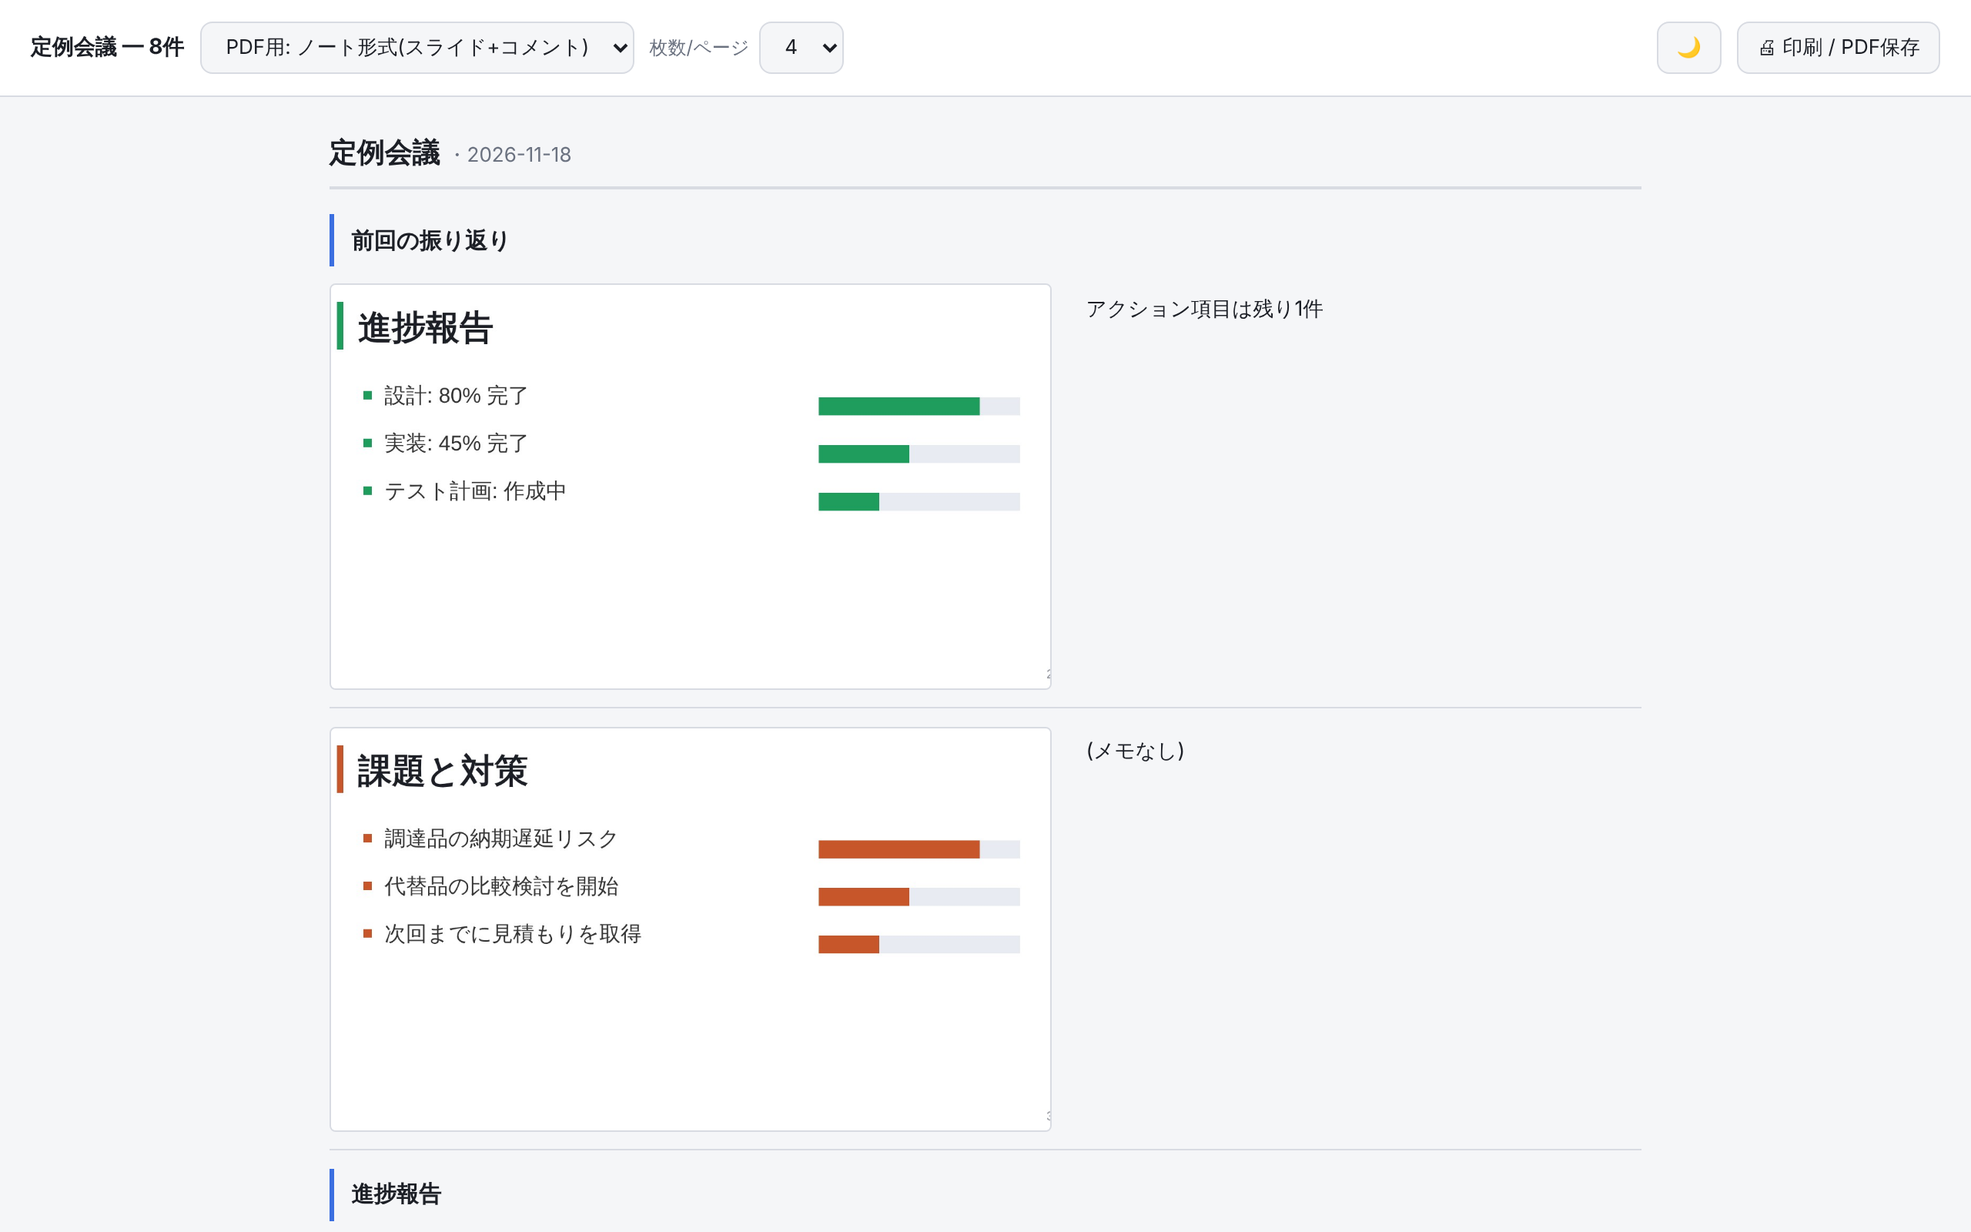
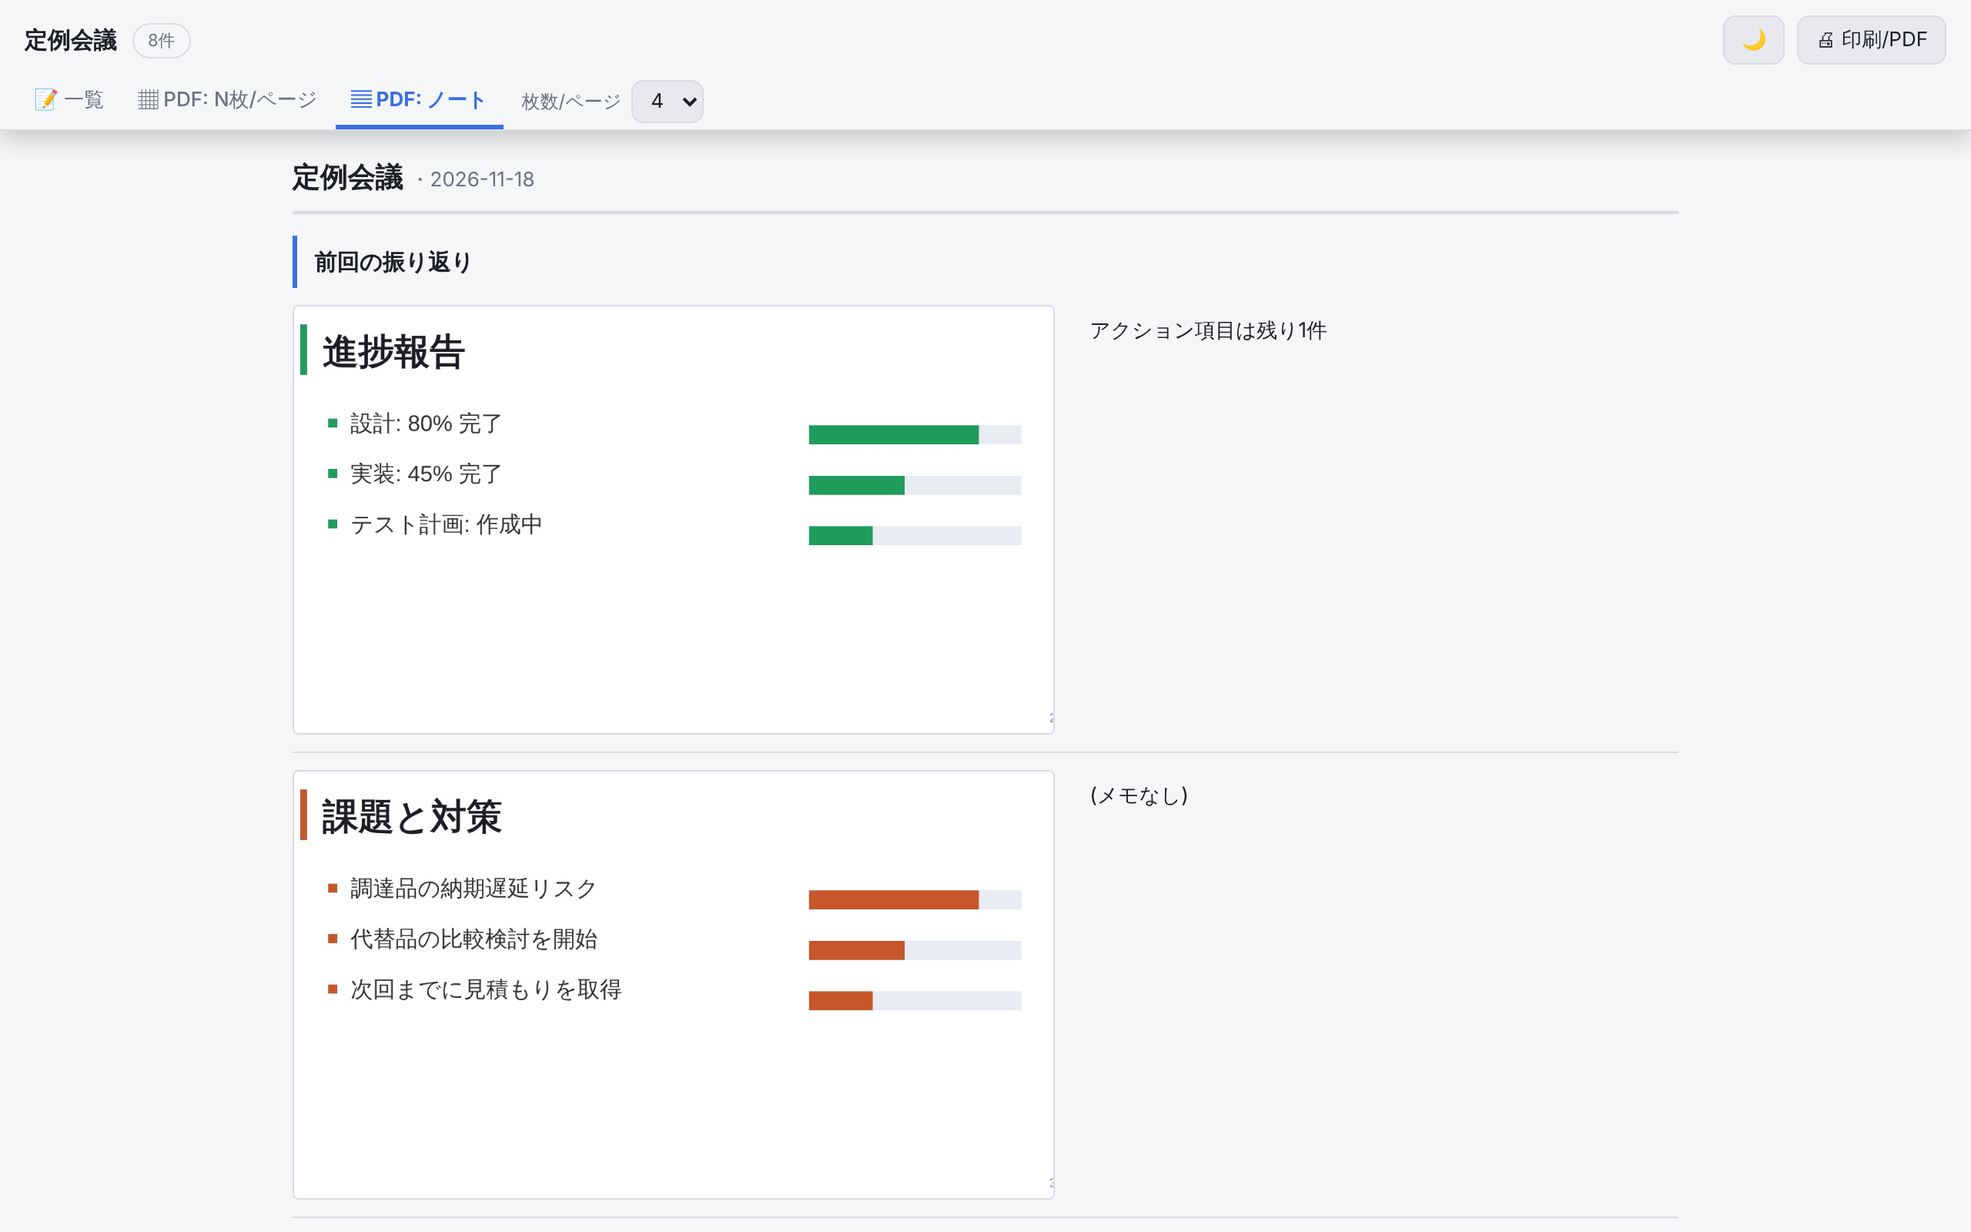
SmartCaptureMemo v02_2026-11-18.9: 書き出しHTMLのデザインを本体に合わせて刷新
- 本体と同じ配色トークン・ヘッダー(タイトル/件数/テーマ/印刷)・表示モードのタブ
- 目次を左のsticky列に(件数📸💬付き、狭い幅は従来どおり右端から引き出し)
- 行をカード型に、メモなし画像の「(メモなし)」表示を省略(一覧表示)
- 印刷時はヘッダー・目次を非表示のまま。ヘルプの説明・スクリーンショットを更新

Claude-Session: https://claude.ai/code/session_01YFt5PcScnp5RMTFYd4nYm6

diff --git a/SmartCaptureMemo/index.html b/SmartCaptureMemo/index.html
@@ -2389,49 +2389,70 @@
 <meta name="viewport" content="width=device-width, initial-scale=1.0">
 <title>${docTitleEsc}</title>
 <style>
-  :root{--bg:#0f1115;--text:#e6e8ec;--sub:#9aa0ac;--panel:#171a21;--border:#2a2e3a;--accent:#4f8cff;--mark-bg:#fde047;--mark-fg:#1c1f26;--memo-col-red:#e5484d;--memo-col-blue:#3b82f6;--memo-col-green:#2fa360;}
+  /* 配色・部品はSmartCaptureMemo本体と同じトークン/見た目に揃える */
+  :root{--bg:#0f1115;--panel:#171a21;--surface2:#1c2029;--border:#2a2e3a;--text:#e6e8ec;--sub:#9aa0ac;--accent:#4f8cff;--secondary-bg:#262b38;--mark-bg:#fde047;--mark-fg:#1c1f26;--memo-col-red:#e5484d;--memo-col-blue:#3b82f6;--memo-col-green:#2fa360;}
   @media (prefers-color-scheme: light){
-    :root{--bg:#f5f6f8;--text:#1c1f26;--sub:#6b7280;--panel:#ffffff;--border:#d8dbe2;--accent:#3b6fe0;}
+    :root{--bg:#f5f6f8;--panel:#ffffff;--surface2:#eef0f4;--border:#d8dbe2;--text:#1c1f26;--sub:#6b7280;--accent:#3b6fe0;--secondary-bg:#e7e9ee;}
   }
-  html[data-theme="light"]{--bg:#f5f6f8;--text:#1c1f26;--sub:#6b7280;--panel:#ffffff;--border:#d8dbe2;--accent:#3b6fe0;}
-  html[data-theme="dark"]{--bg:#0f1115;--text:#e6e8ec;--sub:#9aa0ac;--panel:#171a21;--border:#2a2e3a;--accent:#4f8cff;}
+  html[data-theme="light"]{--bg:#f5f6f8;--panel:#ffffff;--surface2:#eef0f4;--border:#d8dbe2;--text:#1c1f26;--sub:#6b7280;--accent:#3b6fe0;--secondary-bg:#e7e9ee;}
+  html[data-theme="dark"]{--bg:#0f1115;--panel:#171a21;--surface2:#1c2029;--border:#2a2e3a;--text:#e6e8ec;--sub:#9aa0ac;--accent:#4f8cff;--secondary-bg:#262b38;}
   *{box-sizing:border-box;}
   body{font-family:-apple-system,BlinkMacSystemFont,"Segoe UI",sans-serif;background:var(--bg);color:var(--text);margin:0;}
+
   .controls{
-    position:sticky; top:0; z-index:10; display:flex; align-items:center; gap:10px; flex-wrap:wrap;
-    padding:14px 20px; background:var(--panel); border-bottom:1px solid var(--border);
+    position:sticky; top:0; z-index:10; background:var(--bg);
+    border-bottom:1px solid var(--border); box-shadow:0 6px 14px rgba(0,0,0,.18);
   }
-  .controls strong{font-size:14px;}
-  .controls select, .controls button{
-    background:var(--bg); color:var(--text); border:1px solid var(--border); border-radius:8px;
-    padding:7px 12px; font-size:13px; cursor:pointer; font-family:inherit;
+  .appBar{display:flex; align-items:center; gap:10px; padding:10px 16px 6px;}
+  .appBar h1{font-size:15px; margin:0; font-weight:700; min-width:0; overflow:hidden; text-overflow:ellipsis; white-space:nowrap;}
+  .appBar .chip{font-size:11px; color:var(--sub); border:1px solid var(--border); border-radius:12px; padding:3px 9px; white-space:nowrap;}
+  .appBar .rightGroup{margin-left:auto; display:flex; gap:8px; flex-shrink:0;}
+  .controls button, .controls select{
+    background:var(--secondary-bg); color:var(--text); border:1px solid var(--border); border-radius:8px;
+    padding:6px 11px; font-size:13px; cursor:pointer; font-family:inherit;
   }
-  .controls .rightGroup{margin-left:auto; display:flex; gap:10px;}
+  .modeBar{display:flex; align-items:center; gap:2px 12px; padding:0 12px; flex-wrap:wrap;}
+  .modeTabs{display:flex; gap:2px;}
+  .controls .modeTab{
+    background:transparent; color:var(--sub); border:none; border-radius:0; border-bottom:3px solid transparent;
+    padding:8px 10px 7px; font-size:13px; font-weight:500;
+  }
+  .controls .modeTab:hover{color:var(--text);}
+  .controls .modeTab.active{color:var(--accent); border-bottom-color:var(--accent); font-weight:700;}
+  #layoutSelect{display:none;}
   #perPageWrap{display:none; align-items:center; gap:6px; font-size:12px; color:var(--sub);}
   #gridCommentWrap{display:none; align-items:center; gap:6px; font-size:12px; color:var(--sub); cursor:pointer;}
+  .controls #perPageSelect{padding:4px 8px;}
 
-  main{max-width:900px; margin:0 auto; padding:24px;}
-  #docTitle{font-size:18px; margin:0 0 16px; padding-bottom:10px; border-bottom:2px solid var(--border);}
+  .layout{display:flex; gap:16px; align-items:flex-start; max-width:1180px; margin:0 auto; padding:14px 16px;}
+  main{flex:1; min-width:0; max-width:900px; margin:0 auto;}
+  #docTitle{font-size:18px; margin:4px 0 14px; padding-bottom:10px; border-bottom:2px solid var(--border);}
   .docDateTag{font-size:13px; font-weight:400; color:var(--sub);}
 
   #tocPanel{
-    display:block; position:fixed; top:76px; right:24px; width:200px; max-height:calc(100vh - 100px);
-    overflow-y:auto; background:var(--panel); border:1px solid var(--border); border-radius:10px;
-    padding:12px 14px; z-index:5;
+    display:block; position:sticky; top:calc(var(--controls-h, 90px) + 10px); width:220px; flex-shrink:0;
+    max-height:calc(100vh - var(--controls-h, 90px) - 24px); overflow-y:auto;
+    background:var(--panel); border:1px solid var(--border); border-radius:10px; padding:10px 8px; z-index:5;
   }
   #tocPanel.toc-hidden{ display:none !important; }
-  #tocPanel h2{font-size:11px; color:var(--sub); margin:0 0 8px; font-weight:600; letter-spacing:.02em;}
-  #tocPanel nav{display:flex; flex-direction:column;}
+  #tocPanel h2{font-size:11px; color:var(--sub); margin:0 6px 6px; font-weight:600;}
+  #tocPanel nav{display:flex; flex-direction:column; gap:1px;}
   #tocPanel a{
-    display:block; color:var(--text); text-decoration:none; font-size:12px; line-height:1.4;
-    padding:4px 0 4px 8px; margin-left:-1px; border-left:2px solid transparent; opacity:.85;
+    display:flex; gap:6px; align-items:baseline; padding:6px 8px; border-radius:6px; text-decoration:none;
+    color:var(--text); font-size:12px; line-height:1.4; border-left:3px solid transparent;
   }
-  #tocPanel a:hover{opacity:1; border-left-color:var(--accent);}
-  #tocPanel a.active{opacity:1; font-weight:700; color:var(--accent); border-left-color:var(--accent);}
+  #tocPanel a:hover{background:var(--surface2);}
+  #tocPanel a.active{border-left-color:var(--accent); color:var(--accent); font-weight:700; background:var(--surface2);}
+  #tocPanel .tocLabel{flex:1; min-width:0; overflow:hidden; text-overflow:ellipsis; white-space:nowrap;}
+  #tocPanel .tocCount{flex-shrink:0; display:flex; gap:6px; font-size:10px; color:var(--sub); font-weight:400;}
+  #tocPanel .tocNum{display:inline-flex; align-items:baseline; gap:1px;}
+  #tocPanel .tocNum b{display:inline-block; min-width:2ch; text-align:right; font-weight:400; font-variant-numeric:tabular-nums;}
   #tocEdgeTrigger{ display:none; }
-  @media (max-width:1300px){
+  @media (max-width:899px){
+    .layout{display:block;}
+    #tocPanel{position:fixed; max-height:none;}
     #tocPanel{
-      top:0; right:0; width:240px; max-height:none; height:100vh; border-radius:10px 0 0 10px;
+      top:0; right:0; width:260px; max-height:none; height:100vh; border-radius:10px 0 0 10px;
       transform:translateX(100%); transition:transform .25s ease; box-shadow:-6px 0 20px rgba(0,0,0,.3);
       z-index:40; padding-top:20px;
     }
@@ -2448,15 +2469,17 @@
   }
   @media print{ .pageHeaderPrint{display:block;} }
 
-  .rec{background:var(--panel);border:1px solid var(--border);border-radius:10px;padding:14px;margin-bottom:16px;break-inside:avoid;}
+  .rec{background:var(--surface2);border:1px solid var(--border);border-radius:8px;padding:10px;margin-bottom:10px;break-inside:avoid;}
   .rec-meta{font-size:12px;color:var(--sub);margin-bottom:8px;}
-  .rec img{max-width:100%;border-radius:6px;border:1px solid var(--border);}
-  .rec-memo{margin-top:10px;font-size:14px;white-space:pre-wrap;}
+  .rec img{display:block;max-width:100%;border-radius:6px;border:1px solid var(--border);}
+  .rec-memo{margin-top:8px;font-size:14px;line-height:1.5;white-space:pre-wrap;}
+  .rec-memo.is-empty{display:none;}
   .recHeading{
-    font-weight:700; font-size:16px; padding:10px 0 10px 12px; margin:22px 0 12px;
+    font-weight:700; font-size:16px; padding:8px 12px; margin:20px 0 10px; border-radius:4px;
     border-left:4px solid var(--accent); white-space:pre-wrap; break-inside:avoid;
+    scroll-margin-top:calc(var(--controls-h, 90px) + 10px);
   }
-  .recHeading.is-memo{font-weight:400; font-size:14px; border-left-color:var(--border); margin:12px 0;}
+  .recHeading.is-memo{font-weight:400; font-size:14px; border-left-color:var(--border); margin:10px 0;}
 
   .gridPage{display:grid; gap:8mm; margin-bottom:14mm;}
   .gridPage:not(:last-child){break-after:page;}
@@ -2499,7 +2522,9 @@
   @media print{
     :root{--bg:#fff; --panel:#fff; --text:#111; --sub:#555; --border:#ccc;}
     .controls{display:none !important;}
+    .layout{display:block; max-width:none; padding:0;}
     main{max-width:none; padding:0;}
+    .rec{background:#fff;}
     #lightbox{display:none !important;}
   }
 
@@ -2523,7 +2548,20 @@
 <body>
 
 <div class="controls">
-  <strong>${docTitleEsc} — ${records.length}件</strong>
+  <div class="appBar">
+    <h1>${docTitleEsc}</h1>
+    <span class="chip">${records.length}件</span>
+    <div class="rightGroup">
+      <button id="btnTheme" type="button" title="ライト/ダーク切替">🌙</button>
+      <button id="btnPrint" type="button" title="印刷 / PDF保存">🖨 印刷/PDF</button>
+    </div>
+  </div>
+  <div class="modeBar">
+  <div class="modeTabs">
+    <button type="button" class="modeTab" data-mode="list">📝 一覧</button>
+    <button type="button" class="modeTab" data-mode="grid">▦ PDF: N枚/ページ</button>
+    <button type="button" class="modeTab" data-mode="notes">▤ PDF: ノート</button>
+  </div>
   <select id="layoutSelect">
     <option value="list">一覧表示</option>
     <option value="grid">PDF用: A4にN枚/ページ</option>
@@ -2541,22 +2579,20 @@
   <label id="gridCommentWrap" style="display:none;">
     <input type="checkbox" id="gridCommentToggle" checked> コメント表示
   </label>
-  <div class="rightGroup">
-    <button id="btnTheme" type="button" title="ライト/ダーク切替">🌙</button>
-    <button id="btnPrint" type="button">🖨 印刷 / PDF保存</button>
   </div>
 </div>
 
-<main>
-  <h1 id="docTitle">${docTitleEsc}${dateValue ? ` <span class="docDateTag">・${dateValue}</span>` : ""}</h1>
-  <div id="viewRoot"></div>
-</main>
-
-<div id="tocEdgeTrigger"></div>
+<div class="layout">
 <div id="tocPanel">
   <h2>目次</h2>
   <nav id="tocList"></nav>
 </div>
+<main>
+  <h1 id="docTitle">${docTitleEsc}${dateValue ? ` <span class="docDateTag">・${dateValue}</span>` : ""}</h1>
+  <div id="viewRoot"></div>
+</main>
+</div>
+<div id="tocEdgeTrigger"></div>
 
 <div id="lightbox">
   <img id="lightboxImg" alt="拡大表示" draggable="false">
@@ -2697,7 +2733,7 @@
       if(r.d){
         var rec = el("div", "rec");
         rec.appendChild(makeImg(r.d));
-        rec.appendChild(elLinked("div", "rec-memo", r.m || "(メモなし)"));
+        rec.appendChild(elLinked("div", r.m ? "rec-memo" : "rec-memo is-empty", r.m || ""));
         root.appendChild(rec);
       }else{
         var headingEl = elLinked("div", r.h === false ? "recHeading is-memo" : "recHeading", r.m || "");
@@ -2759,10 +2795,34 @@
       .filter(function(x){ return !x.r.d && x.r.h !== false; });
     if(headings.length === 0){ tocPanel.classList.add("toc-hidden"); return; }
     var links = {};
+    // 各見出しのセクション内の画像・メモ件数(次の見出しまで)
+    function sectionCounts(idx){
+      var caps = 0, memos = 0;
+      for(var i = idx + 1; i < DATA.length; i++){
+        var r = DATA[i];
+        if(!r.d && r.h !== false) break;
+        if(r.d) caps++; else memos++;
+      }
+      return { caps: caps, memos: memos };
+    }
+    var anyMemos = DATA.some(function(r){ return !r.d && r.h === false; });
+    function countCell(icon, n){
+      var s = document.createElement("span");
+      s.className = "tocNum";
+      if(!n) s.style.visibility = "hidden";
+      s.textContent = icon;
+      var b = document.createElement("b"); b.textContent = String(n || 0); s.appendChild(b);
+      return s;
+    }
     headings.forEach(function(h){
       var a = document.createElement("a");
       a.href = "#toc-" + h.idx;
-      a.textContent = h.r.m || "(無題)";
+      var tmp = document.createElement("div"); tmp.innerHTML = renderMemoMarkdown((h.r.m || "").split("\\n")[0]);
+      var label = el("span", "tocLabel", tmp.textContent.trim() || "(無題)");
+      var cnt = sectionCounts(h.idx), cc = el("span", "tocCount");
+      cc.appendChild(countCell("📸", cnt.caps));
+      if(anyMemos) cc.appendChild(countCell("💬", cnt.memos));
+      a.appendChild(label); a.appendChild(cc);
       a.addEventListener("click", function(ev){
         ev.preventDefault();
         var target = document.getElementById("toc-" + h.idx);
@@ -2885,6 +2945,25 @@
     else if(mode === "notes"){ renderNotes(viewRoot, parseInt(perPageSelect.value, 10)); hideToc(); }
   }
   layoutSelect.addEventListener("change", render);
+  // 表示モードはタブで切り替える(内部的には従来のlayoutSelectの値を使う)
+  var modeTabs = Array.prototype.slice.call(document.querySelectorAll(".modeTab"));
+  function syncModeTabs(){
+    modeTabs.forEach(function(t){ t.classList.toggle("active", t.getAttribute("data-mode") === layoutSelect.value); });
+  }
+  modeTabs.forEach(function(t){
+    t.addEventListener("click", function(){
+      layoutSelect.value = t.getAttribute("data-mode");
+      syncModeTabs();
+      render();
+      window.scrollTo(0, 0);
+    });
+  });
+  syncModeTabs();
+  // ヘッダーの高さを目次・見出しの貼り付き位置に反映
+  var controlsEl = document.querySelector(".controls");
+  function updateControlsH(){ document.documentElement.style.setProperty("--controls-h", controlsEl.offsetHeight + "px"); }
+  updateControlsH();
+  if(window.ResizeObserver) new ResizeObserver(updateControlsH).observe(controlsEl);
   perPageSelect.addEventListener("change", render);
   gridCommentToggle.addEventListener("change", render);
   render();
@@ -3780,7 +3859,7 @@
   });
 
   // ---------- バージョン履歴(さりげなく表記をクリックすると見られる簡易ログ) ----------
-  const APP_VERSION = "v02_2026-11-18.8"; // ← バージョンはここだけ変更(画面表示・更新履歴の先頭はこの定数から反映)
+  const APP_VERSION = "v02_2026-11-18.9"; // ← バージョンはここだけ変更(画面表示・更新履歴の先頭はこの定数から反映)
   const VERSION_HISTORY = [
     ["v01","Screen Capture Memo(旧ツール v01〜v104)。画面共有→範囲固定→キャプチャ→メモ→HTML書き出し・書き出し履歴まで"],
     ["v02_2026-11-18","SmartCaptureMemoとして新規作成。上部タブ(範囲/記録/履歴)+⚙設定へ再編、見出しのセクション化(現在の見出しへ追加・目次・折りたたみ・Enter連続登録)、履歴の期間フィルタ/検索/ファイルを開く・読み込み、保存先フォルダの許可確認方式化"],
@@ -3790,7 +3869,8 @@
     ["v02_2026-11-18.5","常時表示ボタンの開いている間の表示を、赤背景から淡いアクセント色+枠・「表示中」表記に変更(文字・アイコンの視認性改善)"],
     ["v02_2026-11-18.6","日付・資料タイトル・HTML保存・⋯メニューをスクロール追従のツールバーへ移動し、一覧のどこからでも保存できるように"],
     ["v02_2026-11-18.7","狭い幅(サイドパネル)でキャプチャ等の5ボタンを行の幅いっぱいに均等配置"],
-    ["v02_2026-11-18.8","htmlpreviewでプレビュー中にHTML保存すると、書き出したHTMLのスクリプトが動かず画像が表示されない不具合を修正"]
+    ["v02_2026-11-18.8","htmlpreviewでプレビュー中にHTML保存すると、書き出したHTMLのスクリプトが動かず画像が表示されない不具合を修正"],
+    ["v02_2026-11-18.9","書き出しHTMLのデザインを本体に合わせて刷新(ヘッダー+表示モードのタブ、左の目次に件数、カード型の行)"]
   ];
 
   const verLabel = $("verLabel");

diff --git a/SmartCaptureMemo/help.html b/SmartCaptureMemo/help.html
@@ -377,14 +377,14 @@
   <figure class="shot" style="max-width:460px;"><img src="help-images/settings.png" alt="設定画面"></figure>
 
   <h2 id="export">書き出しHTMLの表示</h2>
-  <p>書き出したHTMLを開くと、画面上部のセレクタで表示を切り替えられます。</p>
+  <p>書き出したHTMLはツール本体と同じデザインで、画面上部のタブで表示を切り替えられます。右上の🌙でライト/ダーク切替、「🖨 印刷/PDF」でPDF化できます。</p>
   <table class="modeTable">
     <tr><th>モード</th><th>内容</th></tr>
-    <tr><td>一覧表示</td><td>縦スクロールの一覧。見出しから作った目次が右側に表示されます</td></tr>
-    <tr><td>PDF用: A4にN枚/ページ</td><td>印刷・PDF化向けのグリッド(2・3・4・6枚/ページ)。「コメント表示」でメモの表示を切り替えられます</td></tr>
-    <tr><td>PDF用: ノート形式</td><td>画像を左、メモを右に並べたレイアウト</td></tr>
+    <tr><td>📝 一覧</td><td>縦スクロールの一覧。見出しから作った目次(📸画像・💬メモの件数付き)が左側に表示されます。画面が狭いときは右端からスワイプ/ホバーで引き出せます</td></tr>
+    <tr><td>▦ PDF: N枚/ページ</td><td>印刷・PDF化向けのグリッド(2・3・4・6枚/ページ)。「コメント表示」でメモの表示を切り替えられます</td></tr>
+    <tr><td>▤ PDF: ノート</td><td>画像を左、メモを右に並べたレイアウト</td></tr>
   </table>
-  <p>画像をクリックすると拡大表示します(左右キーで前後の画像、ホイールでズーム、ドラッグで移動、メモがキャプションとして表示)。「🖨 印刷/PDF保存」でPDF化できます。</p>
+  <p>画像をクリックすると拡大表示します(左右キーで前後の画像、ホイールでズーム、ドラッグで移動、メモがキャプションとして表示)。</p>
   <div class="shotRow">
     <figure class="shot"><img src="help-images/export-list.png" alt="一覧表示"><figcaption>一覧表示</figcaption></figure>
     <figure class="shot"><img src="help-images/export-grid.png" alt="PDF用グリッド"><figcaption>PDF用: グリッド</figcaption></figure>
